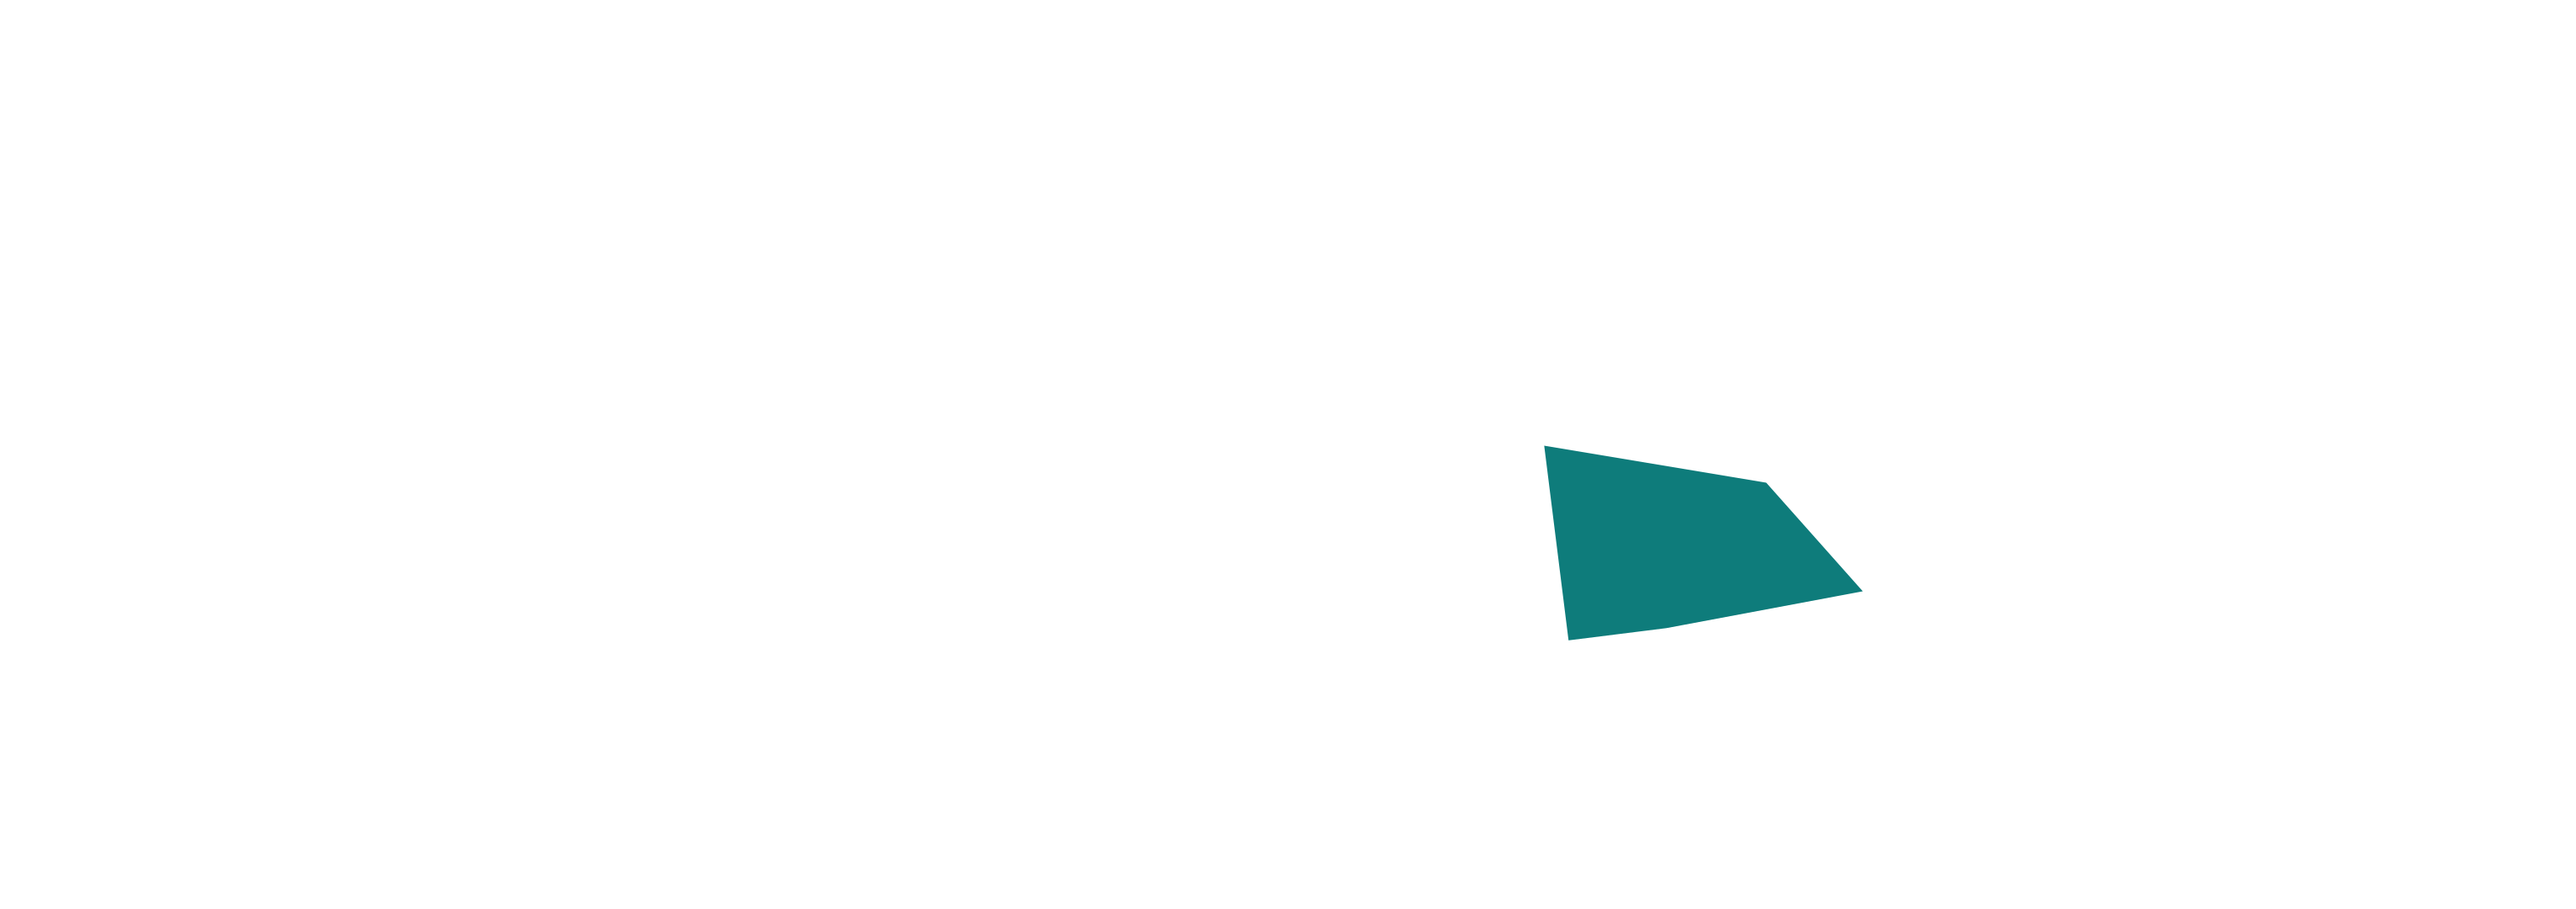
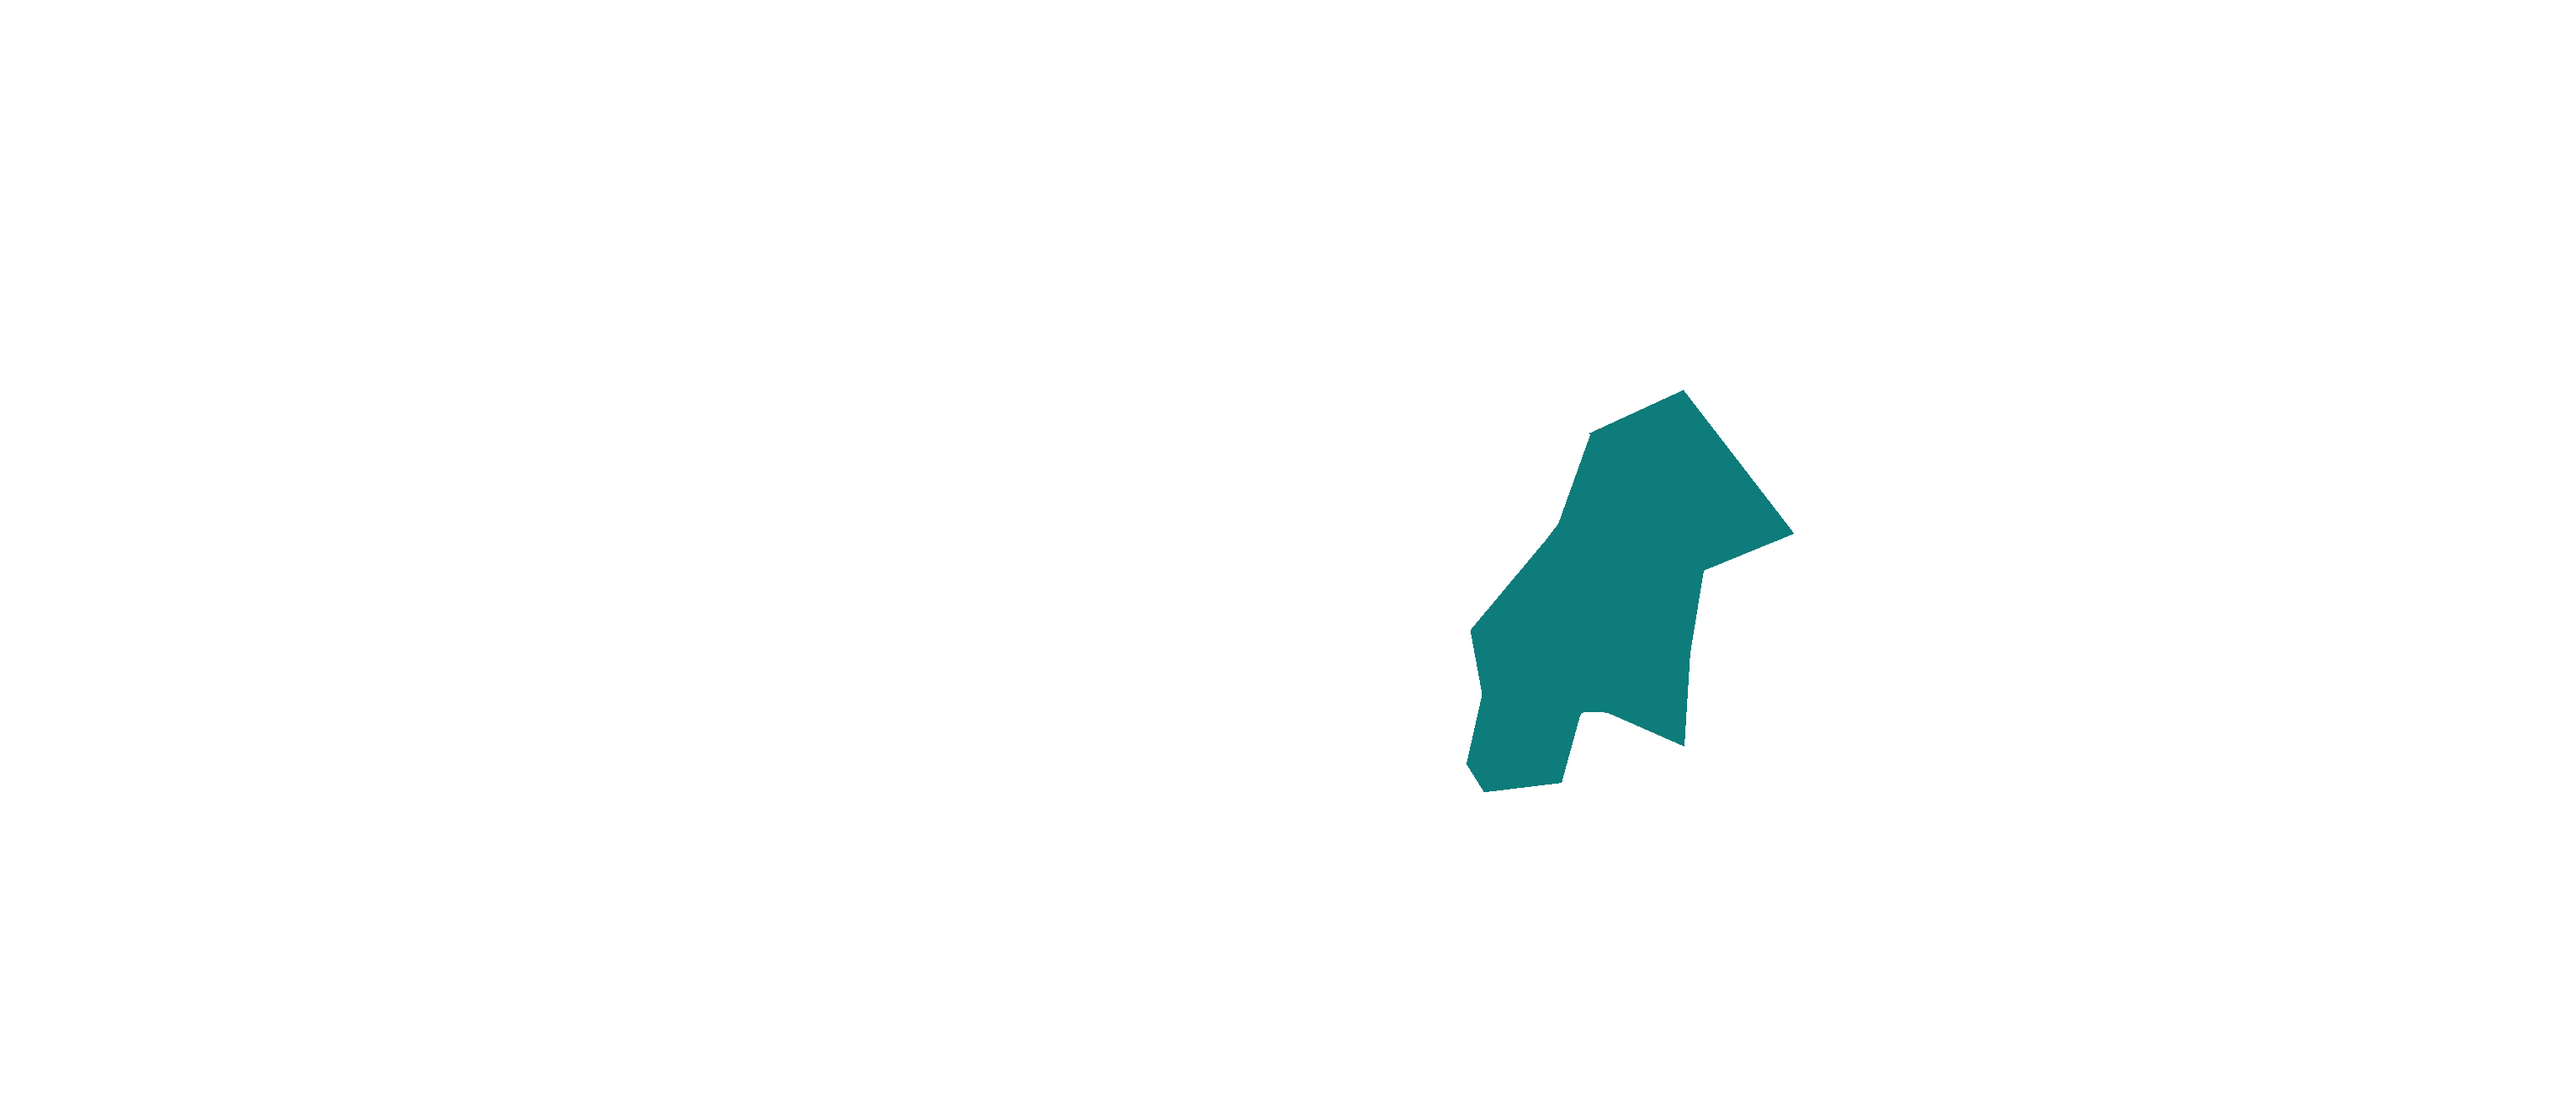
feat(towing): coverage map renders resolveRegion itself, at true aspect
The polygons were freehand from the design mockup — never real geography, and a
separate definition that could drift from the filter beneath it. Both problems
go away by deleting them.

Every pixel is now inverse-projected to a real coordinate and passed to
resolveRegion() — the same function the filter calls. The image is a rendering
of the decision function rather than an approximation of it, so map/resolver
drift is not guarded against, it is impossible: one definition, both read it.
No polygons remain in the module. ~21s to generate.

Aspect corrected 1020x360 -> 1020x436. True equirectangular aspect for TRNC at
lat 35.4 is 2.34; the mockup's 2.83 stretched the island horizontally by ~21%.
A distorted map of real roads shown to people who drive them daily is the
original bug wearing new clothes.

MAP_LABEL_ANCHORS are now GENERATED — pole of inaccessibility per region, via a
chamfer distance transform — and written back into constants/towing.js by the
generator, so a new shape repositions its own labels with no step to forget.
--check verifies masks AND anchors are what a fresh render produces.

The generator header now states, in a box, that this is not a map of TRNC's
districts and must not be corrected toward the official one: its only correct
reference is resolveRegion's behaviour. Every deliberate departure is listed
there (Karpaz invented, Tatlisu, Dikmen, the Bafra strip, Mesarya folded,
[…]

Changed region(s): [[0.5588, 0.3667, 0.7141, 0.7333]]

diff --git a/constants/towing.js b/constants/towing.js
@@ -51,30 +51,30 @@ export const serviceLabelKey = key => SERVICE_LABEL[key] || key
 // native build (see the module log). scripts/generate-towing-map.mjs rasterises these
 // into PNG masks at build time; CoverageMap stacks the masks. They live here so the
 // generator, the drift check and the label positions all read one source.
-export const MAP_VIEWBOX = { width: 1020, height: 360 }
+// 1020 x 436 is TRUE equirectangular aspect (2.34) for TRNC at lat 35.4°. The design
+// mockup used 1020 x 360 (2.83), which stretched the island horizontally by ~21% — a
+// distorted map of real roads, shown to people who drive them daily.
+export const MAP_VIEWBOX = { width: 1020, height: 436 }
 
-export const MAP_POLYGONS = {
-  lefke:     '40,215 120,150 150,160 160,250 100,250',
-  morphou:   '120,150 250,120 265,150 270,255 160,250 150,160',
-  kyrenia:   '250,120 330,95 430,105 520,140 500,185 400,175 300,170 265,150',
-  nicosia:   '265,150 300,170 400,175 500,185 490,255 380,290 300,265 270,255',
-  famagusta: '500,185 610,175 620,255 620,300 560,325 470,320 380,290 490,255',
-  iskele:    '610,175 700,190 740,235 660,250 620,255',
-  karpaz:    '700,190 790,140 870,85 950,35 985,60 900,140 820,200 740,235',
-}
-
+// NO POLYGONS. The coverage map is rendered per-pixel by evaluating resolveRegion()
+// itself (scripts/generate-towing-map.mjs), so the image IS the decision function rather
+// than a hand-drawn approximation of it. The freehand mockup polygons that used to live
+// here were never real geography and have been deleted rather than left to mislead.
+//
+// This also means the map and the region filter CANNOT disagree: there is one definition
+// (ANCHORS + TRNC_OUTLINE in constants/regions.js) and both read it.
 // Label anchor points, in the SAME viewBox space, from the mockup's <text> x/y.
 // CoverageMap converts these to percentages so the labels track the image at any width.
 // The mockup anchors text at its LEFT baseline; these are converted to CENTRES so an RN
 // <Text> can be centred on them regardless of how long the translated label is.
 export const MAP_LABEL_ANCHORS = {
-  lefke:     { x: 103, y: 207 },
-  morphou:   { x: 213, y: 195 },
-  kyrenia:   { x: 372, y: 137 },
-  nicosia:   { x: 378, y: 223 },
-  famagusta: { x: 505, y: 267 },
-  iskele:    { x: 668, y: 217 },
-  karpaz:    { x: 838, y: 145 },
+  nicosia:    { x:  383, y: 320 },
+  kyrenia:    { x:  237, y: 255 },
+  famagusta:  { x:  534, y: 348 },
+  morphou:    { x:  174, y: 317 },
+  iskele:     { x:  633, y: 245 },
+  lefke:      { x:   66, y: 337 },
+  karpaz:     { x:  800, y: 127 },
 }
 
 // ─── The drift guard the whole map design rests on ──────────────────────────
@@ -87,17 +87,11 @@ export const MAP_LABEL_ANCHORS = {
 // mask FILES both ways — a region with no mask, and a mask with no region. Verify
 // without rewriting: `node scripts/generate-towing-map.mjs --check`.
 export function assertMapKeysMatchRegions() {
-  const poly   = Object.keys(MAP_POLYGONS).sort()
   const labels = Object.keys(MAP_LABEL_ANCHORS).sort()
   const canon  = [...REGIONS].sort()
-  const problems = []
-  if (JSON.stringify(poly) !== JSON.stringify(canon)) {
-    problems.push(`MAP_POLYGONS keys [${poly}] != REGIONS [${canon}]`)
-  }
   if (JSON.stringify(labels) !== JSON.stringify(canon)) {
-    problems.push(`MAP_LABEL_ANCHORS keys [${labels}] != REGIONS [${canon}]`)
+    throw new Error(`towing coverage map drift: MAP_LABEL_ANCHORS keys [${labels}] != REGIONS [${canon}]`)
   }
-  if (problems.length) throw new Error(`towing coverage map drift:\n  ${problems.join('\n  ')}`)
   return true
 }
 
